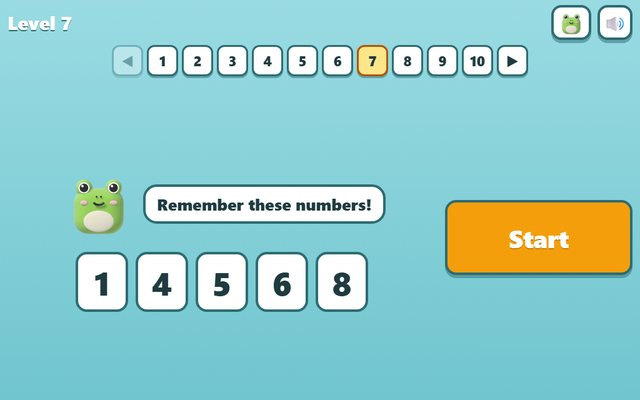
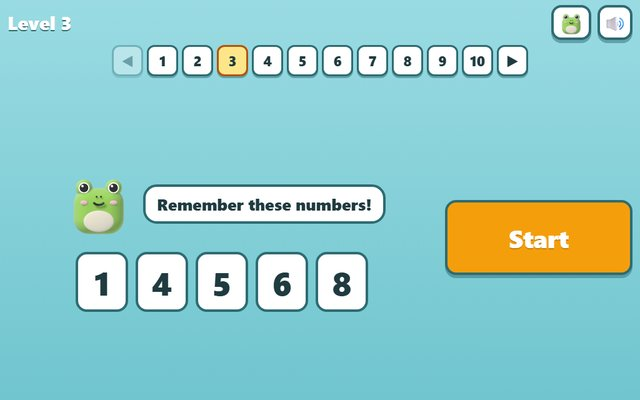
publish bon-games: flying-babies, star-finder, number-memory

Changed region(s): [[0.5312, 0.09, 0.625, 0.21], [0.3125, 0.09, 0.4062, 0.21], [0.0938, 0.03, 0.125, 0.09]]

diff --git a/number-memory/index.html b/number-memory/index.html
@@ -168,16 +168,26 @@
   ];
 
   // ================= LEVEL =================
-  // Bậc thang: không cột nào giảm từ level này sang level sau (mốc thử — Bon chơi rồi chỉnh).
-  // [số ô, số nhỏ nhất, số lớn nhất, câu No "giống" số trên bảng, bảng không xếp thứ tự, kéo dài mấy level]
-  const STEPS = [
-    [3, 1, 9, 0, 0, 3], [4, 1, 9, 0, 0, 3], [5, 1, 9, 0, 0, 3],
-    [5, 1, 20, 0, 0, 3], [6, 1, 20, 0, 0, 3],
-    [6, 10, 99, 0, 0, 4], [7, 10, 99, 0, 0, 4], [7, 10, 99, 1, 0, 4], [7, 10, 99, 1, 1, 4],
-    [7, 100, 999, 1, 1, 4], [8, 100, 999, 1, 1, 4], [9, 100, 999, 1, 1, 5], [10, 100, 999, 1, 1, 6],
-  ];
+  // Nam 11-02: "độ khó cần tăng đều" + bảng to ra được → mỗi level khó hơn level trước ĐÚNG 1 nấc, không level nào chỉ đổi số.
+  // Level 1 = 3 số 1 chữ số; mỗi chữ cái dưới đây = 1 nấc để lên level kế:
+  //   A thêm 1 ô số 1 chữ số · U 1 số 1 chữ số → 2 chữ số · V 1 số 2 chữ số → 3 chữ số
+  //   L thêm 1 câu No "giống" số trên bảng (chỉ khác chữ số cuối ±1/±2) · M bảng không xếp thứ tự
+  // Ô 1 chữ số tối đa 6 (1…9 phải còn ≥3 số cho câu No). Level 50 = 16 số 3 chữ số, cả 3 câu No đều "giống", bảng xáo trộn.
+  const LADDER = 'AAA' + 'UUUUUU' + 'AU' + 'L' + 'AU' + 'L' + 'M' + 'VVVVVVVV' + 'L' + 'AUV'.repeat(8);
   const LEVELS = [];
-  STEPS.forEach(function(s) { for (let i = 0; i < s[5]; i++) LEVELS.push({ n: s[0], lo: s[1], hi: s[2], alike: !!s[3], mixed: !!s[4] }); });
+  (function() {
+    const s = { d: [3, 0, 0], alike: 0, mixed: false };
+    const push = function() { LEVELS.push({ n: s.d[0] + s.d[1] + s.d[2], d: s.d.slice(), alike: s.alike, mixed: s.mixed }); };
+    push();
+    for (const op of LADDER) {
+      if (op === 'A') s.d[0]++;
+      else if (op === 'U') { s.d[0]--; s.d[1]++; }
+      else if (op === 'V') { s.d[1]--; s.d[2]++; }
+      else if (op === 'L') s.alike++;
+      else if (op === 'M') s.mixed = true;
+      push();
+    }
+  })();
   const MAX_LEVEL = LEVELS.length; // 50
   const ROUND_Q = 5;               // lượt nào cũng hỏi 5 câu → điểm luôn tính trên 5
 
@@ -332,25 +342,31 @@
   function noise(k) { SFX.log.push({ id: 'fx', key: k, t: performance.now() }); if (NOISE[k]) NOISE[k](); }
 
   // ================= RA ĐỀ =================
-  // 5 câu khác nhau, 2–3 câu đáp YES (bấm 1 nút hoài không đúng hết). Level "giống": mọi câu NO = 1 số trên bảng đổi CHỮ SỐ CUỐI ±1/±2.
+  // 5 câu khác nhau, 2–3 câu đáp YES (bấm 1 nút hoài không đúng hết). Câu NO "giống" = 1 số trên bảng đổi CHỮ SỐ CUỐI ±1/±2;
+  // câu NO thường = số ngẫu nhiên CÙNG SỐ CHỮ SỐ với 1 ô trên bảng (bảng toàn số dài thì không hỏi số 1 chữ số — đoán bằng độ dài là ra).
   function ri(a, b) { return a + Math.floor(Math.random() * (b - a + 1)); }
   function shuffle(x) { for (let i = x.length - 1; i > 0; i--) { const j = Math.floor(Math.random() * (i + 1)); const t = x[i]; x[i] = x[j]; x[j] = t; } return x; }
   function ascending(b) { return b.every(function(v, i) { return i === 0 || b[i - 1] < v; }); }
+  function digits(v) { return String(v).length; }
+  function lenRange(k) { return k === 1 ? [1, 9] : [Math.pow(10, k - 1), Math.pow(10, k) - 1]; } // 1 chữ số bỏ số 0
   let forced = []; // chỉ ?test: hàng đợi bảng ép, makeRound thật lấy trước khi tự rút
   function drawBoard(L) {
     if (forced.length) return forced.shift().slice();
     const set = new Set();
-    while (set.size < L.n) set.add(ri(L.lo, L.hi));
+    for (let k = 1; k <= 3; k++) {
+      const r = lenRange(k), want = set.size + L.d[k - 1];
+      while (set.size < want) set.add(ri(r[0], r[1]));
+    }
     return Array.from(set);
   }
-  // số "giống": tính theo chữ số nên luôn cùng chục với số gốc (43 → 41/42/44/45; 347 → 345…349), không trùng bảng, trong khoảng
-  function alikeLures(board, lo, hi) {
+  // số "giống": tính theo chữ số nên luôn cùng chục với số gốc (43 → 41/42/44/45; 347 → 345…349; 5 → 3/4/6/7), không trùng bảng, giữ nguyên số chữ số
+  function alikeLures(board) {
     const on = new Set(board), out = new Set();
     for (const b of board) {
-      const last = b % 10;
+      const last = b % 10, r = lenRange(digits(b));
       for (const d of [-2, -1, 1, 2]) {
         const v = b + d;
-        if (last + d < 0 || last + d > 9 || v < lo || v > hi || on.has(v)) continue;
+        if (last + d < 0 || last + d > 9 || v < r[0] || v > r[1] || on.has(v)) continue;
         out.add(v);
       }
     }
@@ -361,17 +377,16 @@
     let board, lures, draws = 0;
     do { // bảng lấp kín 1 chục (vd 100…109) → không đủ số "giống" → rút bảng lại (trần 100 lần chỉ để chống treo; bốc ngẫu nhiên đo 0 lần phải rút)
       board = drawBoard(L).sort(function(a, b) { return a - b; }); draws++;
-      lures = L.alike ? alikeLures(board, L.lo, L.hi) : null;
-    } while (L.alike && lures.length < 3 && draws < 100);
+      lures = L.alike ? alikeLures(board) : [];
+    } while (lures.length < Math.min(L.alike, 3) && draws < 100);
     if (L.mixed) { let g = 0; do shuffle(board); while (ascending(board) && ++g < 50); }
     const yesN = ri(2, 3), noN = ROUND_Q - yesN;
     const yes = shuffle(board.slice()).slice(0, yesN);
-    let no;
-    if (L.alike) no = shuffle(lures).slice(0, noN);
-    else {
-      const on = new Set(board), pool = [];
-      for (let v = L.lo; v <= L.hi; v++) if (!on.has(v)) pool.push(v);
-      no = shuffle(pool).slice(0, noN);
+    const no = shuffle(lures).slice(0, Math.min(L.alike, noN));
+    const taken = new Set(board.concat(no));
+    for (let g = 0; no.length < noN && g < 1000; g++) { // câu NO thường: số chữ số lấy theo 1 ô ngẫu nhiên trên bảng
+      const r = lenRange(digits(board[ri(0, board.length - 1)])), v = ri(r[0], r[1]);
+      if (!taken.has(v)) { taken.add(v); no.push(v); }
     }
     const questions = shuffle(yes.map(function(v) { return { v: v, ans: true }; }).concat(no.map(function(v) { return { v: v, ans: false }; })));
     return { level: lv, board: board, questions: questions, draws: draws };
